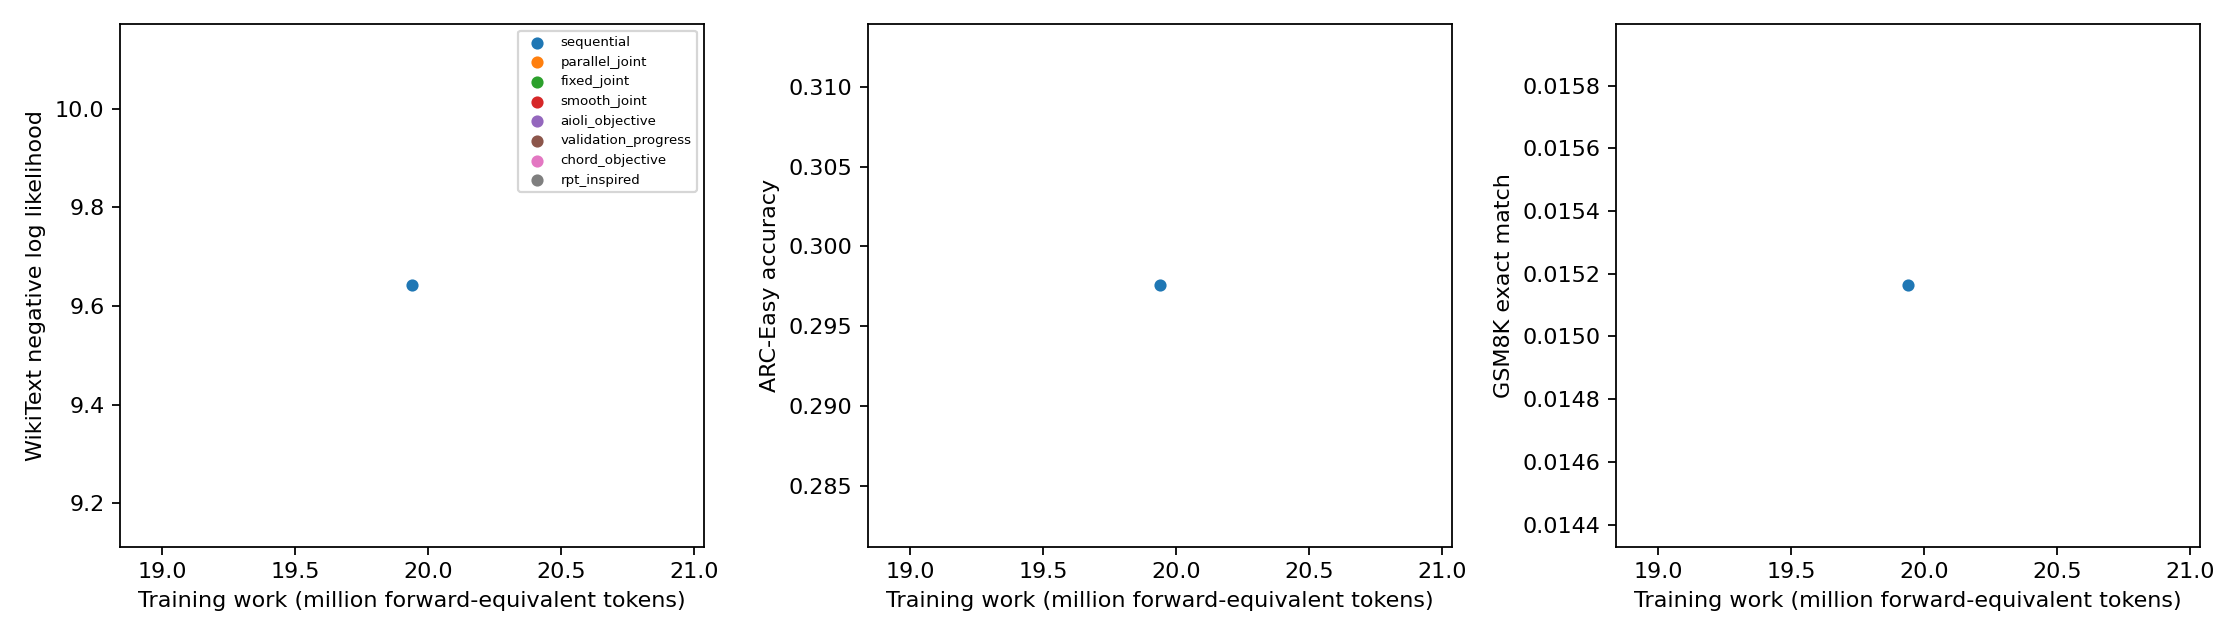
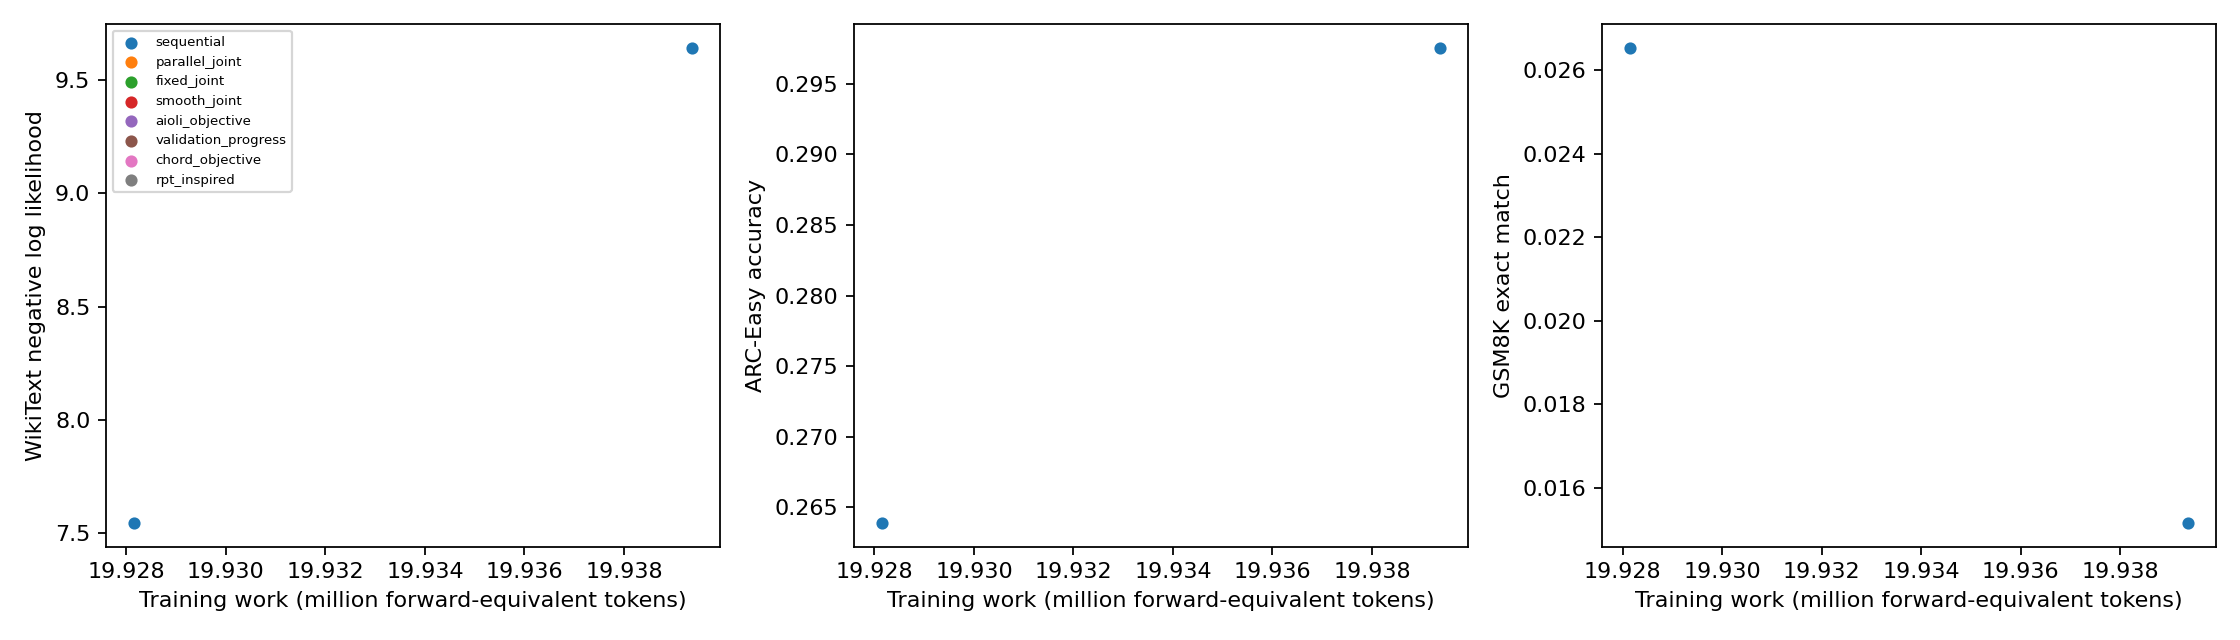
Report verified unified-training pilot progress

diff --git a/experiments/02_early_checkpoint_joint_objectives/results.md b/experiments/02_early_checkpoint_joint_objectives/results.md
@@ -5,7 +5,7 @@
 | Method | Seed | Status | Training work (million forward-equivalent tokens) | ARC-Easy accuracy | GSM8K exact match | WikiText NLL | Preference raw / implicit accuracy |
 |---|---:|---|---:|---:|---:|---:|---|
 | sequential | 0 | complete | 19.939 | 0.2976 [0.2795, 0.3163] | 0.0152 [0.0098, 0.0233] | 9.6419 [9.5743, 9.7074] | 0.5312 [0.4701, 0.5915] / 0.3906 [0.3329, 0.4516] |
-| sequential | 1 | pending | unavailable | unavailable | unavailable | unavailable | unavailable |
+| sequential | 1 | complete | 19.928 | 0.2639 [0.2466, 0.2820] | 0.0265 [0.0191, 0.0367] | 7.5458 [7.4961, 7.5963] | 0.5781 [0.5169, 0.6370] / 0.5000 [0.4392, 0.5608] |
 | sequential | 2 | pending | unavailable | unavailable | unavailable | unavailable | unavailable |
 | parallel_joint | 0 | pending | unavailable | unavailable | unavailable | unavailable | unavailable |
 | parallel_joint | 1 | pending | unavailable | unavailable | unavailable | unavailable | unavailable |
@@ -33,7 +33,7 @@ NLL = negative log likelihood; preference raw ordering is the preference endpoin
 
 Intervals: 95% Wilson binary-item score, conditional on each trained model; p-val=n/a (no hypothesis test). Three seeds do not establish universal superiority. Aioli, CHORD (Controllable Harmonization of On- and Off-Policy Reinforcement Learning via Dynamic Weighting), and RPT (Reinforcement Pre-Training) are declared adaptations; exact CHERRY-RL identity remains unresolved.
 
-Complete: 1/24. See `expt_v1/PROTOCOL.md` and the program review reconciliation.
+Complete: 2/24. See `expt_v1/PROTOCOL.md` and the program review reconciliation.
 
 Seed uncertainty, two-stage seed/item intervals, initial-checkpoint changes and all paired comparisons: `expt_v1/analysis.json`. Missing trained seeds remain missing with separate accuracy sensitivity bounds. p-val=n/a throughout; no formal superiority verdict.
 

diff --git a/experiments/00_program/FINAL_STATUS.md b/experiments/00_program/FINAL_STATUS.md
@@ -1,6 +1,6 @@
 # Full-program status
 
-Verified cells: 25/48; failed: 0; interrupted: 0; pending: 23; unstarted at global bound: 0.
+Verified cells: 26/48; failed: 0; interrupted: 0; pending: 22; unstarted at global bound: 0.
 
 Full-program execution is incomplete. Required plan and implementation findings are reconciled; see acceptance.json.
 Results and uncertainty are in each experiment folder; no universal-superiority claim.
